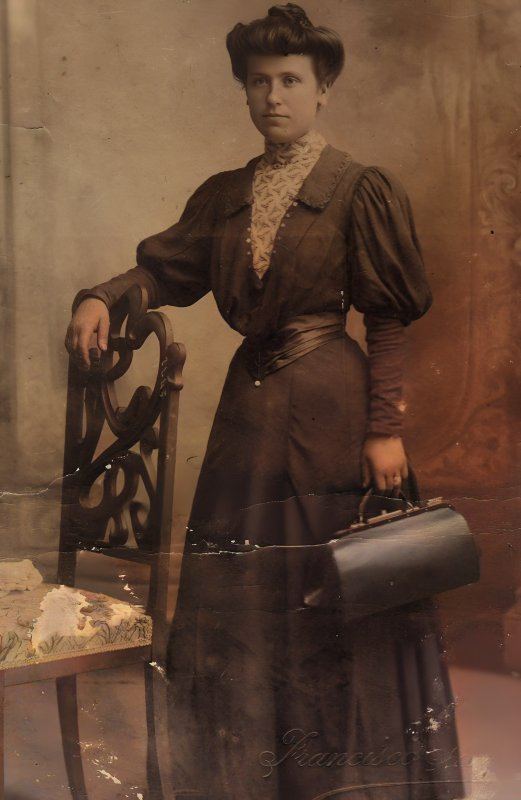
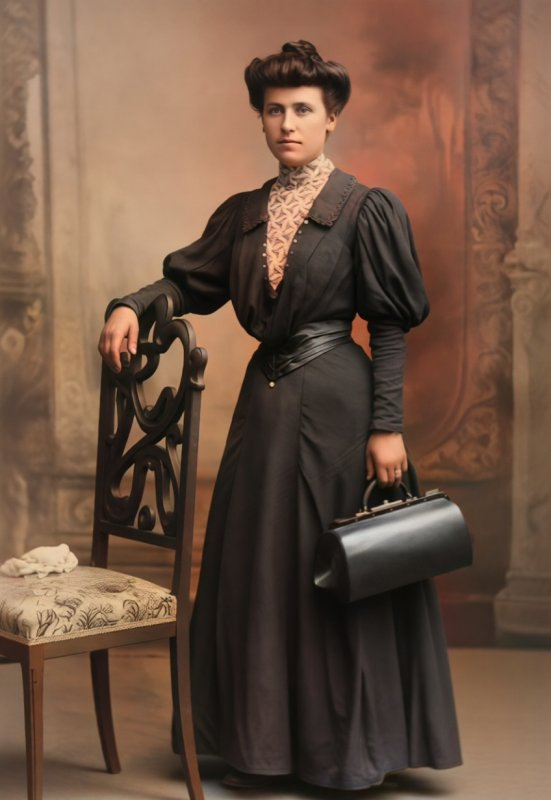
docs: show Francesca's colorized variant in the README

diff --git a/README.md b/README.md
@@ -23,7 +23,7 @@ The three photos in [examples/](examples) are real family photos from the early 
 
 **Heavy emulsion loss, worn and missing corners**
 
-| Original | Repaired | Full frame | Generative (Turbo) | Full frame, colorized |
+| Original | Repaired | Full frame | Generative (Turbo) | Colorized |
 |:---:|:---:|:---:|:---:|:---:|
 | <img src="examples/francesca-ma-osa-grau.jpg" width="170"> | <img src="examples/results/francesca-repaired.jpg" width="170"> | <img src="examples/results/francesca-full-frame.jpg" width="170"> | <img src="examples/results/francesca-turbo-generative.jpg" width="170"> | <img src="examples/results/francesca-colorized.jpg" width="170"> |
 
